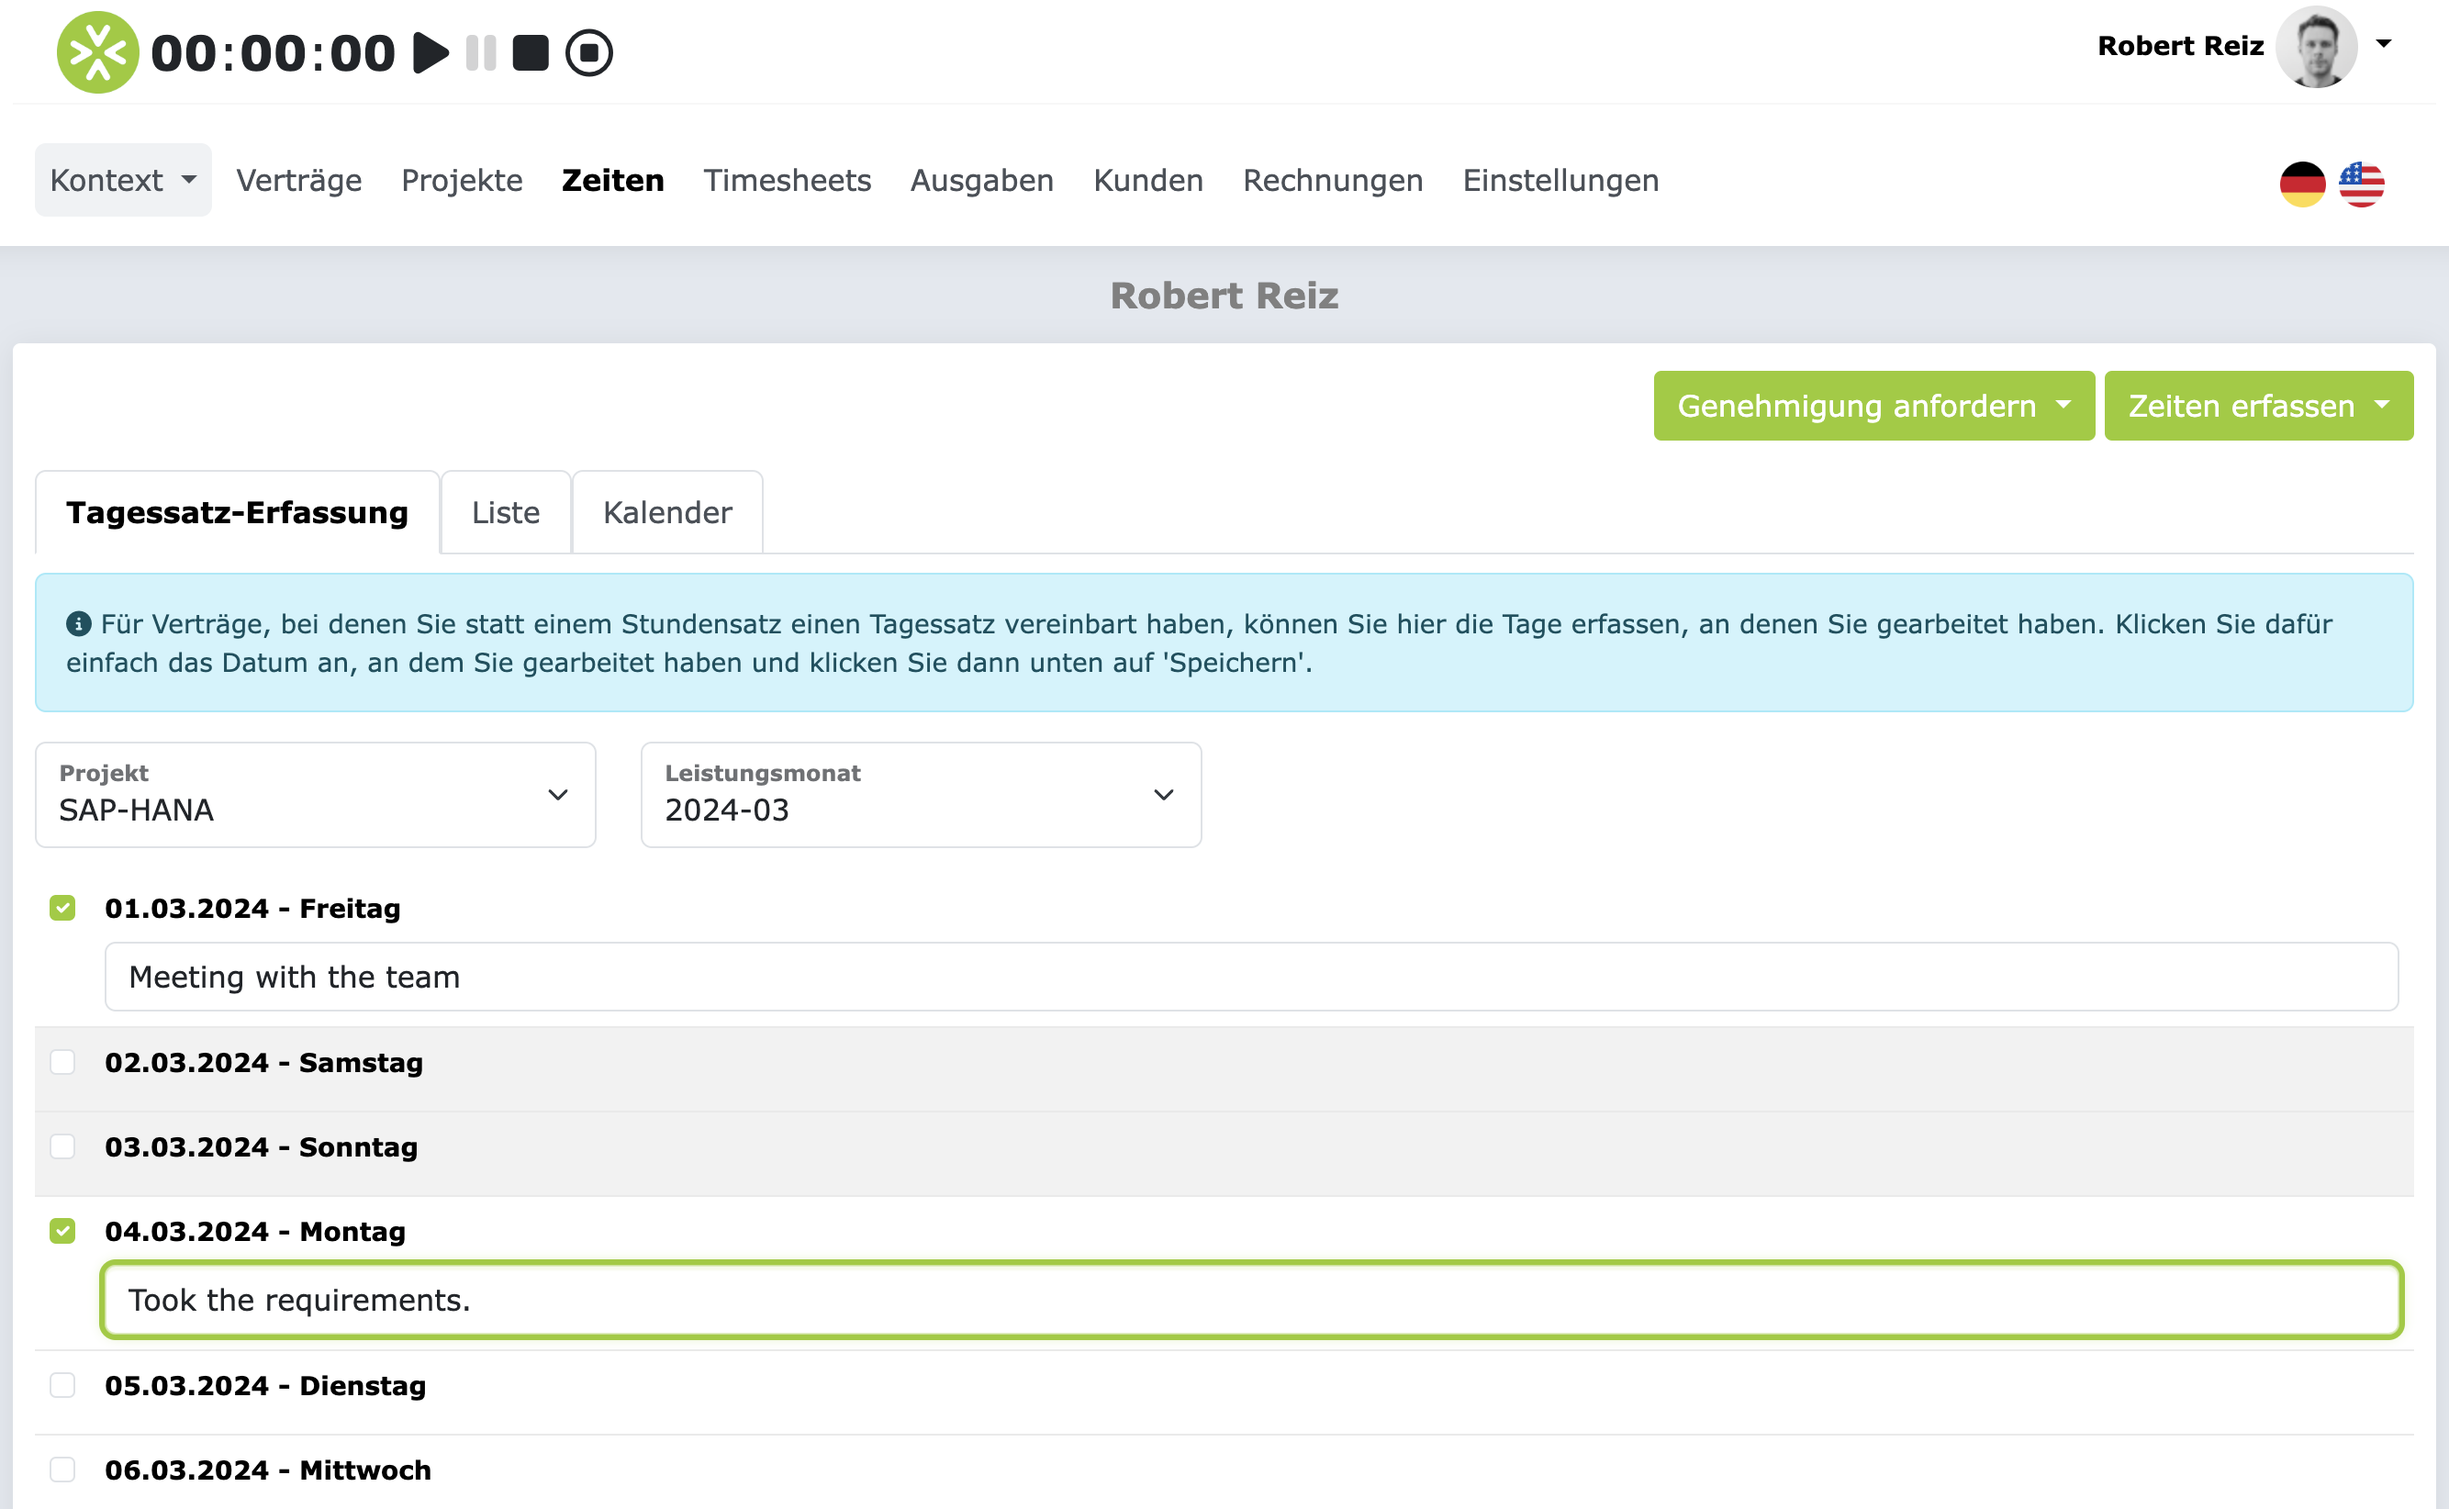
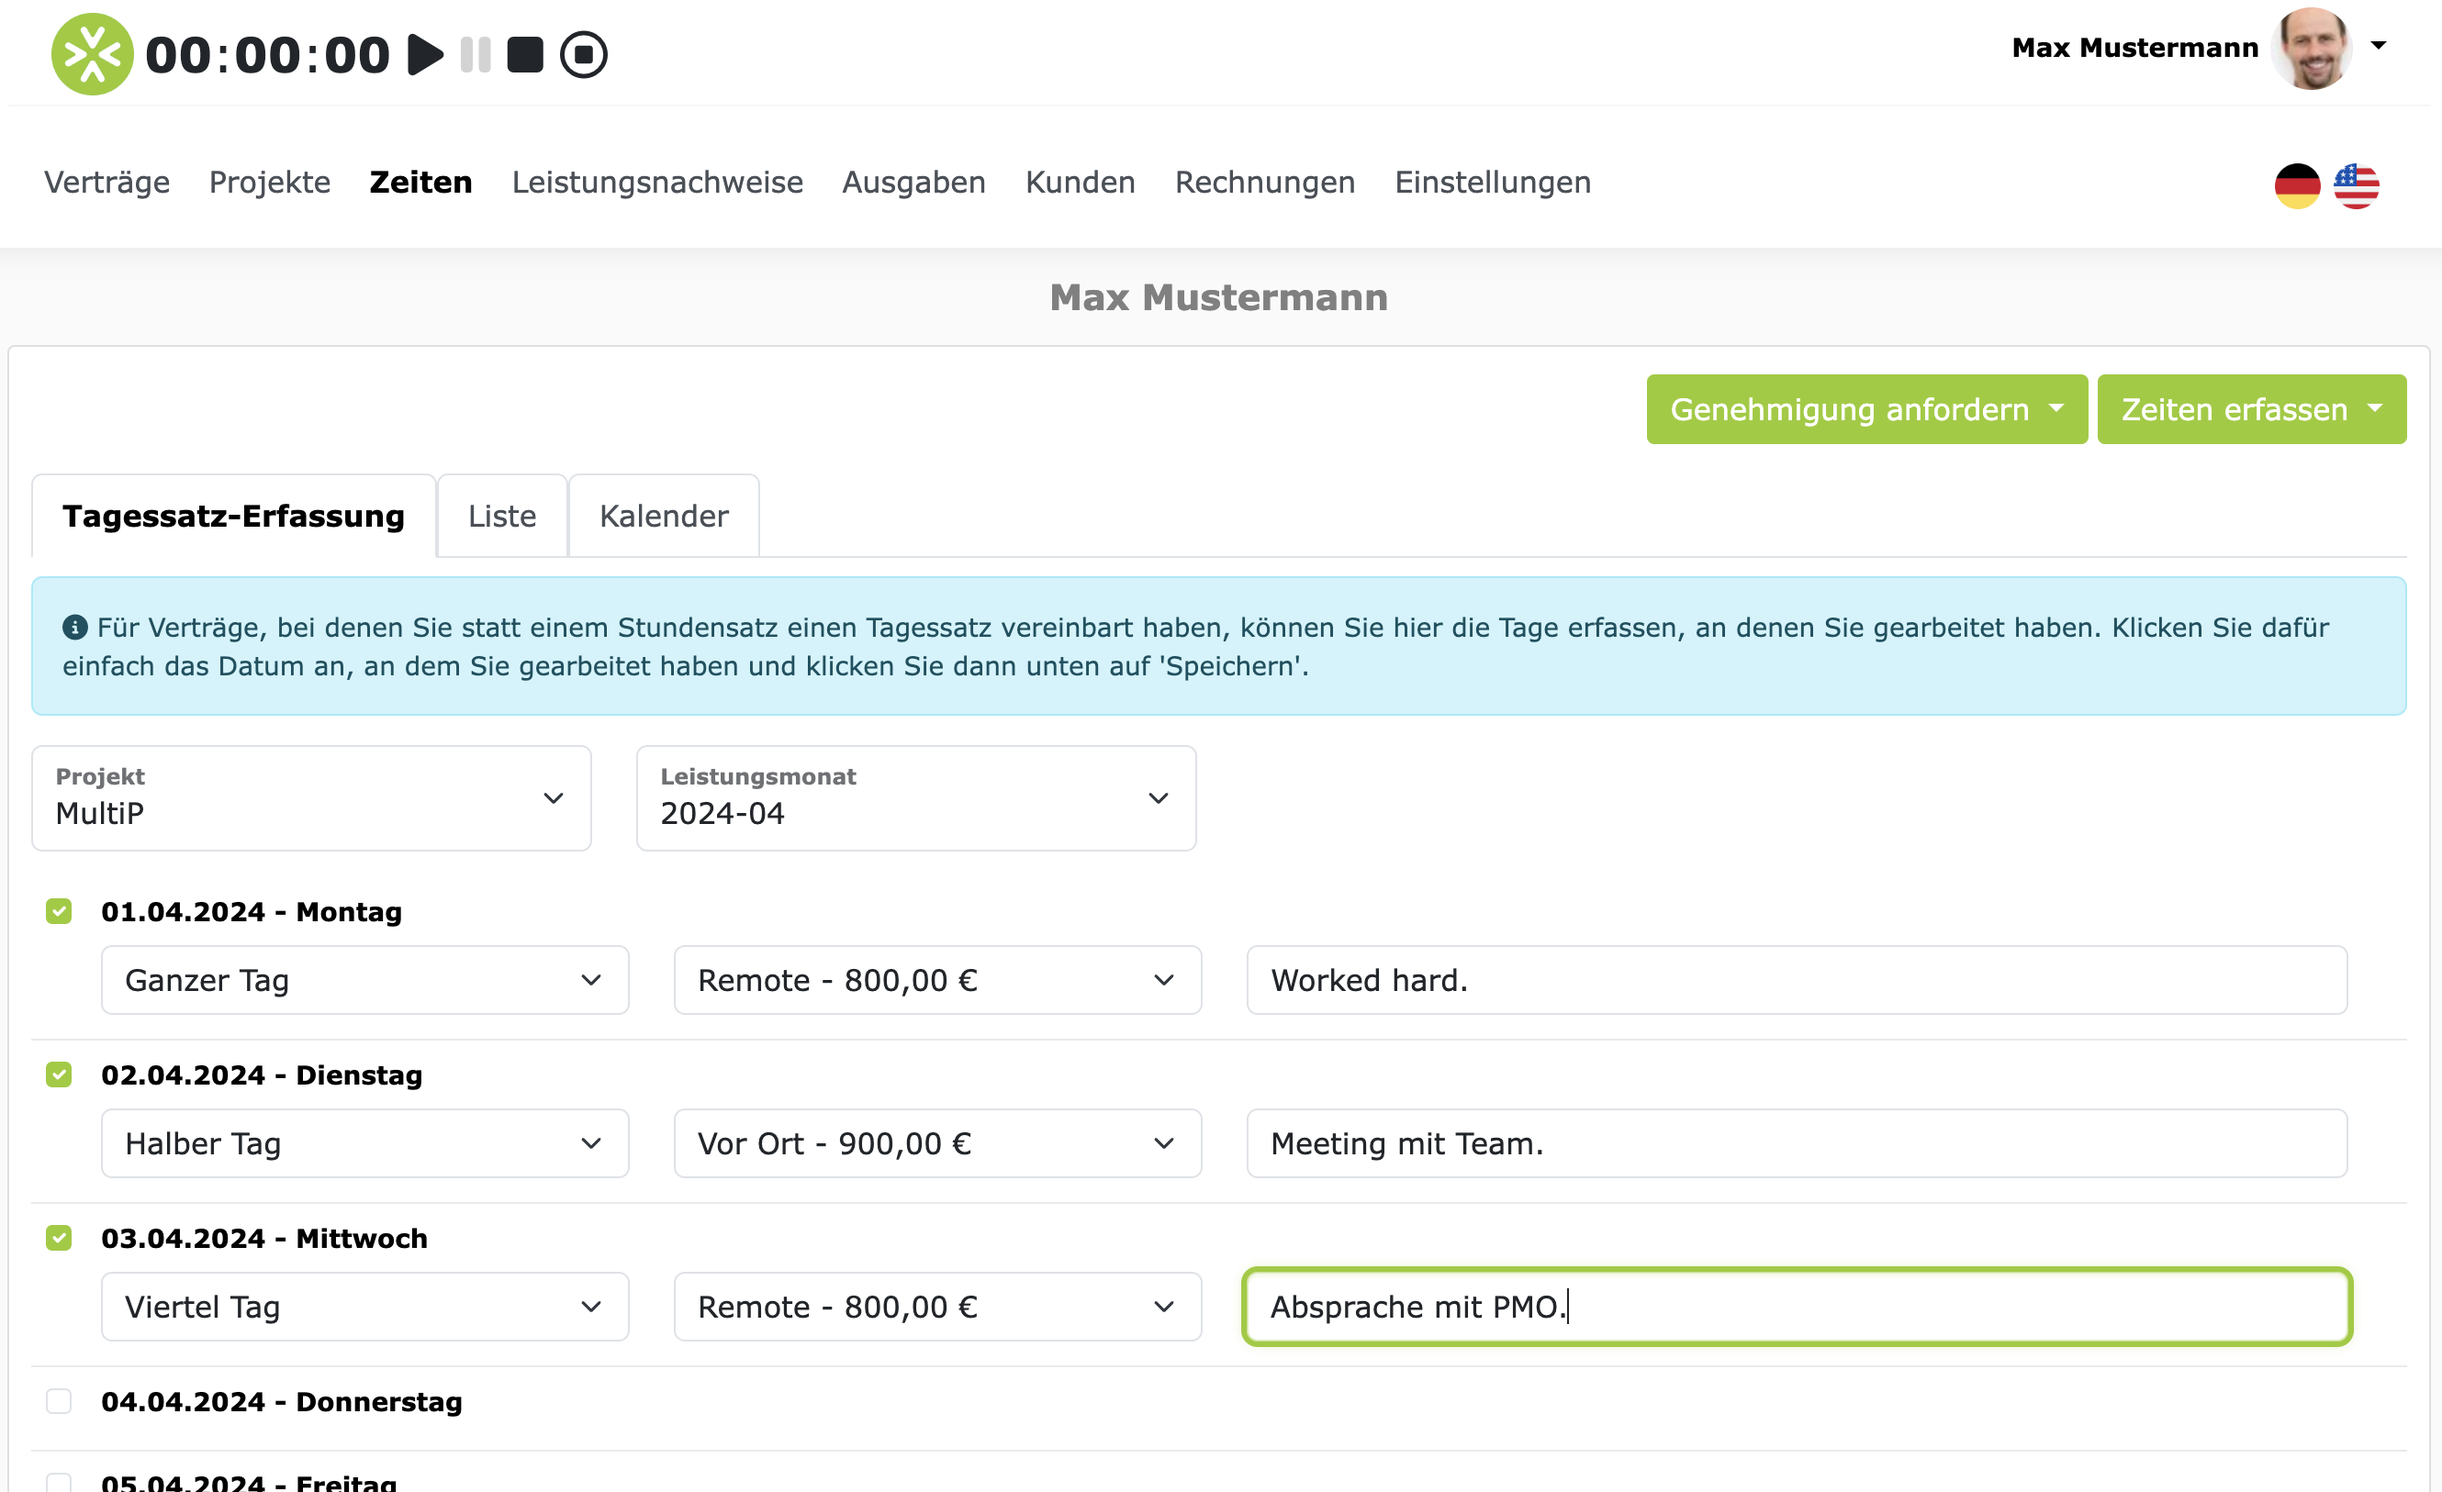
Adjust docs for new day rate form.

diff --git a/docs/freiberufler/zeiterfassung.md b/docs/freiberufler/zeiterfassung.md
@@ -6,7 +6,7 @@ wie Sie Ihre Projektzeiten erfassen können:
 - **Timer**: Erfassen Sie Ihre Zeiten mit Start-, Stop- und Pausenzeiten über den Timer.
 - **Kalender**: Erfassen Sie Ihre Zeiten mit "Drag and Drop" im Kalender.
 - **Stunden-Formular**: Erfassen Sie Ihre Zeiten manuell ohne Start- und Stoppzeit über die Dauer (Stunden & Minuten).
-- **Tages-Formular**: Erfassen Sie Ihre Zeiten ohne Start- und Stoppzeit tageweise.
+- **Tages-Formular**: Erfassen Sie Ihre Zeiten, ohne Start- und Stoppzeit, tageweise.
 - **Import**: Importieren Sie Ihre Zeiten aus einem anderen System.
 
 Außerdem gibt es verschiedene Clients, mit denen Sie Ihre Zeiten erfassen können:
@@ -120,15 +120,22 @@ angezeigt!
 Wenn Sie einen Vertrag mit einer Tagessatz-Vereinbarung haben und im Hauptmenü auf "Zeiten" klicken, dann
 erscheint ein Tab "Tagessatz-Erfassung". Dieser Tab ist auch der erste Tab und bereits vorausgewählt.
 
-Das Tages-Formular sieht so aus:
+Das Tages-Formular sieht wie folgt aus:
 
-![Tages-Formular](../img/context-freelance/day-form-01-de.png)
+![Tagessatz-Erfassung-Formular](../img/context-freelance/day-form-01-de.png)
 
 Sie können auf der Seite das Projekt und den Leistungsmonat auswählen und dann die Anzahl der Arbeitstage pro Monat
-erfassen. Dazu klicken Sie einfach die Tage an, an denen Sie gearbeitet haben. Für jeden Arbeitstag erscheint
-ein Eingabefeld, in dem Sie eine kurze Arbeitsbeschreibung eingeben können. Ganz unten auf der Seite können Sie 
-auf "Speichern" klicken um die Arbeitstage zu erfassen.
+erfassen. Dazu klicken Sie einfach die Tage an, an denen Sie gearbeitet haben. Für jeden Arbeitstag erscheint dann 
+eine Zeile im Formular, in der Sie folgende drei Felder ausfüllen können:
 
+- **Dauer**: Hier können Sie angeben, ob Sie einen ganzen Tag (8 Stunden), einen halben Tag (4 Stunden), 
+  oder nur einen viertel Tag (2 Stunden) gearbeitet haben.
+- **Tagessatz**: Das zweite Drop-Down Feld ist der Tagessatz. Hier können Sie auswählen, ob Sie remote oder Vor-Ort tätig 
+  waren. Dieses Drop-Down Feld erscheint nur dann, wenn Sie in dem Projekt mehrere Tagessätze vereinbart haben.
+  Wenn Sie nur einen Tagessatz haben, dann wird das Feld nicht angezeigt.
+- **Kommentar**: Hier können Sie eine kurze Beschreibung Ihrer Arbeit eingeben.
+
+Ganz unten auf der Seite können Sie auf "Speichern" klicken um die Arbeitstage zu speichern.
 
 ## FAQs
 

diff --git a/docs/freiberufler/genehmigungsverfahren.md b/docs/freiberufler/genehmigungsverfahren.md
@@ -20,8 +20,8 @@ Wenn der Genehmigungsprozess für Ihre Projekt-Mitgliedschaft nicht aktiviert is
 Buchungen sofort genehmigt und können sofort in Rechnung gestellt werden.
 
 !!! Info  
-Das [Gutschriftverfahren](/freiberufler/gutschriftverfahren/) gibt es nur in Kombination mit dem Genehmigungsverfahren.
-Ohne Genehmigungsverfahren gibt es auch keine Gutschriften!
+    Das [Gutschriftverfahren](/freiberufler/gutschriftverfahren/) gibt es nur in Kombination mit dem Genehmigungsverfahren.
+    Ohne Genehmigungsverfahren gibt es auch keine Gutschriften!
 
 In den folgenden Kapiteln wird beschrieben, wie Sie Genehmigung beantragen können:
 
